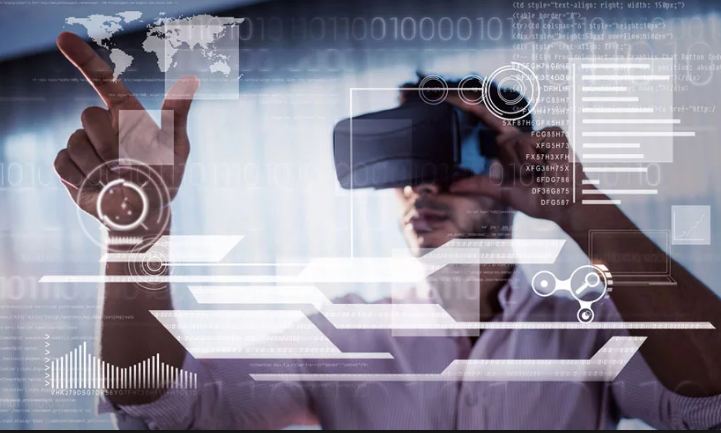
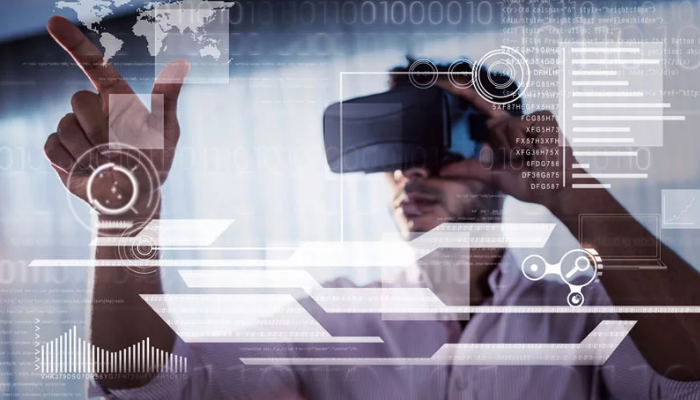
Beyond Vision Tweaks
refining code

diff --git a/style.css b/style.css
@@ -850,7 +850,7 @@ footer {
 --------------------------------------------------------------------*/
 .form-wrap {
 	background-color: var(--color-silver-dark-transparent);
-	padding: 2rem;
+	
 }
 
 form {
@@ -951,6 +951,10 @@ textarea {
 
 
 @media ( min-width: 650px ) {
+
+	.form-wrap {
+		padding: 2rem;
+	}
 
 	form {
 		align-items: start;
@@ -1194,40 +1198,40 @@ a.news-card:hover {
 /*----------------------
 	Article Card
 ----------------------*/
-.card-article {
+.card-article-wrap {
 	background-color: var(--color-silver-transparent);
-	margin: auto;
+}
+
+.card-article {
+	background-color: white;
+	margin: 2rem auto;
 	max-width: 45rem;
-	padding: 2rem;
 }
 
 .card-content-container {
-	margin: 0 ;
-	max-width: 50vw;
-	padding: 1rem;
+	margin: auto;
+	padding: 1rem 0;
 }
 
-.card-article h1 {
-	font-size: var(--font-size-four);
-	text-shadow: none;
-}
-
-.card-article-img {
+.card-article img {
 	margin: auto;
 	max-width: 100%;
 }
 
 .card-article h2 {
 	background-color: var(--color-silver-transparent);
-	font-size: var(--font-size-two);
-	text-align: center;
-	margin: 1.5rem auto;
+	font-size: var(--font-size-three);
 	padding: 1rem .5rem 1rem .5rem;
 }
 
 .card-article p {
 	font-size: var(--font-size-one);
-	padding: .5rem;
+	max-width: 35rem;
+	padding: 1rem;
+}
+
+.card-article p, .card-article a, .card-article h3 {
+	margin: 1rem;
 }
 
 .article-authorship {
@@ -1255,7 +1259,7 @@ a.news-card:hover {
 		background-color: var(--color-silver-transparent);
 		margin: auto;
 		max-width: 100%;
-		padding: 0;
+		padding: 1rem 0;
 	}
 
 	.card-article {
@@ -1267,6 +1271,15 @@ a.news-card:hover {
 		max-width: 100%;
 		padding: 0;
 	}
+
+	.card-article:first-child {
+		margin-top: 0;
+	}
+
+	.card-article:last-child {
+		margin-bottom: 0;
+	}
+
 
 	.card-article .example-card {
 		margin: 0 auto;
@@ -1284,98 +1297,6 @@ a.news-card:hover {
 	.card-ceo-profile {
 		background-color: white;
 		margin: 0;
-	}
-}
-
-/*----------------------
-	Product Card
-----------------------*/
-.card-product-wrap {
-	margin: auto;
-	max-width: 100rem;
-}
-
-.card-product {
-	align-items: center;
-	background-color: white;
-	border-top: 5px solid var(--color-gold-dark);
-	box-shadow: var(--box-shadow-primary);
-	display: grid;
-	grid-template-columns: repeat(4, 1fr);
-	justify-items: center;
-	margin: 0 auto;
-	max-width: 35rem;
-	padding: 1rem;
-}
-
-.card-product li {
-	list-style: none;
-}
-
-.card-product h1 {
-	font-size: var(--font-size-three);
-	grid-column: span 4;
-	padding: 1rem;
-	margin: 0 auto;
-	text-shadow: none;
-}
-
-.card-product img {
-	align-items: center;
-	grid-column: 1 / span 1;
-	grid-row-start: 2;
-}
-
-.card-product ul {
-	border-left: 1px solid var(--color-silver-transparent);
-	grid-column: 2 /span 3;
-	grid-row-start: 2;
-	padding-top: 0;
-}
-
-
-.card-product a {
-	text-align: center;
-	font-size: var(--font-size-one);
-	grid-column: 4 / span 1;
-}
-
-@media (min-width: 725px) {
-
-	.card-product-wrap { 
-		background-color: var(--color-gold-transparent);
-		grid-gap: 1rem;
-		padding: 1rem;
-		
-	}
-
-	.card-product {
-		display: flex;
-		flex-direction: column;
-	}
-}
-
-@media (min-width: 800px) {
-
-	.card-product {
-	align-items: center;
-	justify-items: flex-start;
-
-	}
-
-	.card-product ul {
-	border-left: none;
-	}
-}
-
-@media (min-width: 1200px) {
-
-	.card-product-wrap {
-	grid-template-columns: repeat( 12, 1fr);
-	}
-
-	.card-product {
-		grid-column: span 6;
 	}
 }
 

diff --git a/index.html b/index.html
@@ -66,19 +66,16 @@
 
 		<div class="card-article-wrap">
 				<div class="card-article">
-					<div class="card-article-img">
-						<img src="img/man-interaction-interface.jpg" alt="man in VR headset">
+					<div>
+						<img src="img/man-large-vr-shot.png" alt="woman in VR headset">
 					</div>
 				
 					<div class="card-content-container">
-						<div class="card-product">
-
 							<h2>See more than meets the eye...</h2>
 
 							<p>Our powerful headsets lead the charge. The short answer is that VR is worth it. With some of the visual adventures of this generation, innovative controls, and a well-supported ecosystem of VR development,  the virtual world is taking shapes you have never dreamed.</p>
 
 							<a href="" class="link-button-tertiary-dark">See it!</a>
-						</div>
 					</div>
 				</div>
 
@@ -90,7 +87,6 @@
 					</div>
 				
 					<div class="card-content-container">
-						<div class="card-product">
 							<h2>Quick Easy Installation</h2>
 
 							<h3>Create interactive demos</h3>
@@ -98,7 +94,6 @@
 							<p>With quick and easy installation, you can set up a door to another deminsion yourself. Just watch this quick demo to see how. Not a do it yourself kind of person? No problem, schedule a visit from one of our professional installation team and we will have you up and running in no time!</p>
 
 							<a href="" class="link-button-tertiary-dark">Experience it Today!</a>
-						</div>
 					</div>
 				</div>
 
@@ -108,7 +103,6 @@
 					</div>
 				
 					<div class="card-content-container">
-						<div class="card-product">
 
 							<h2>Prototype in virtual space</h2>
 						
@@ -121,7 +115,6 @@
 							</ul>
 
 							<a href="" class="link-button-tertiary-dark">Try it</a>
-						</div>
 					</div>
 				</div>
 			

diff --git a/about.html b/about.html
@@ -57,9 +57,9 @@
 					<img src="img/our-tem-meeting.png">	
 				</aside>
 				
-				<h2>Our Mission</h2>
+				<h2>Our Mission to Another Deminsion</h2>
 
-				<p>Our mission is to capture your imagination and take your dreams to a place beyond the scope of the human capacity of vision. Our motto is "Aut viam inveniam aut faciam." That is if we can not find a way, we will make one. Beyond Vision is leading the way toward a new way to move through life. Adventurers can now step beyond their reality into one of infite possibilities: places where dreams and nightmares have substance, hopes and fears can be touched and worlds without number await to be explored.</p>
+				<p>Our mission is to capture your imagination and take your dreams to a place beyond the scope of the human capacity of vision. Our motto is "Aut viam inveniam aut faciam." That is if we can not find a way, we will make one. Beyond Vision is leading the way toward a new way to move through life. Anything you can imagine, anything you need, we’re here to make it happen. Don’t get stuck using yesterday’s technology to do the jobs of tomorrow. We are here to create the experiences and tools you imagine.</p>
 			</div>
 		</div>
 
